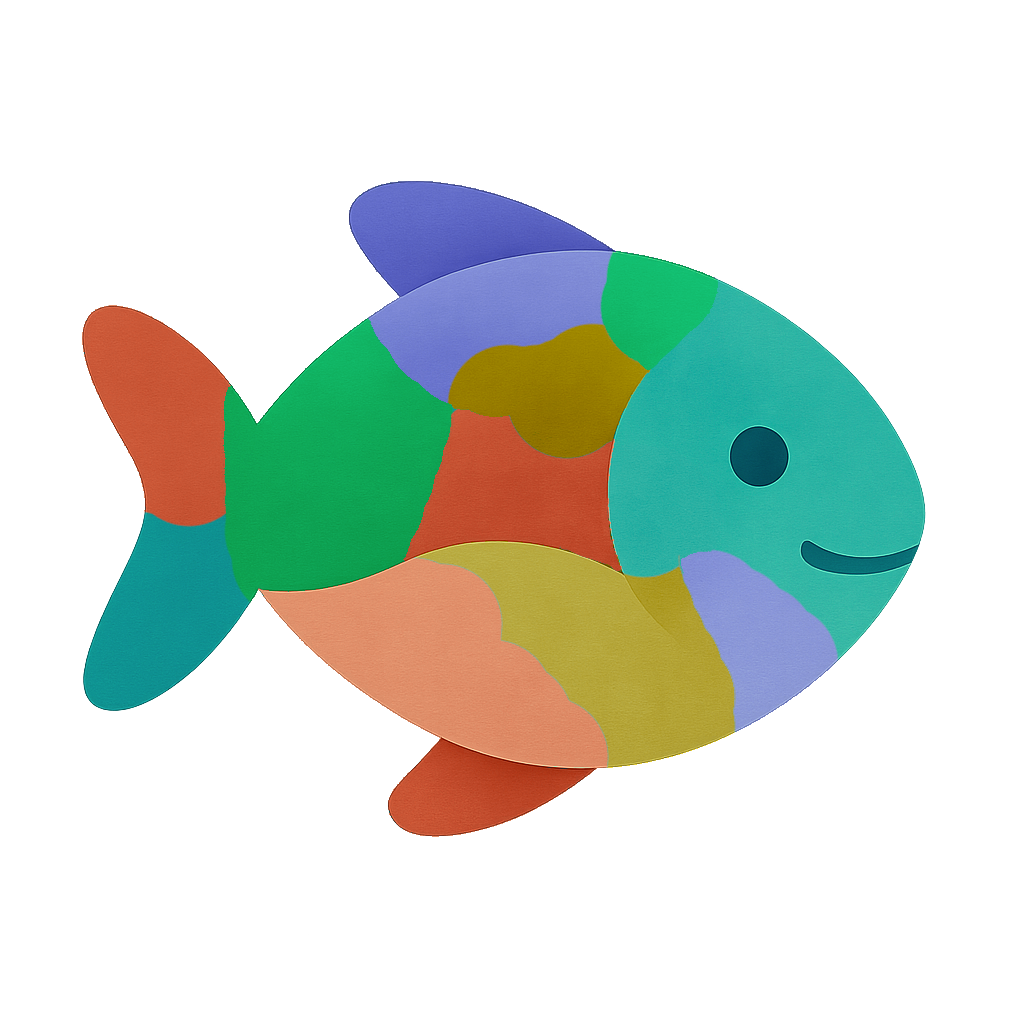
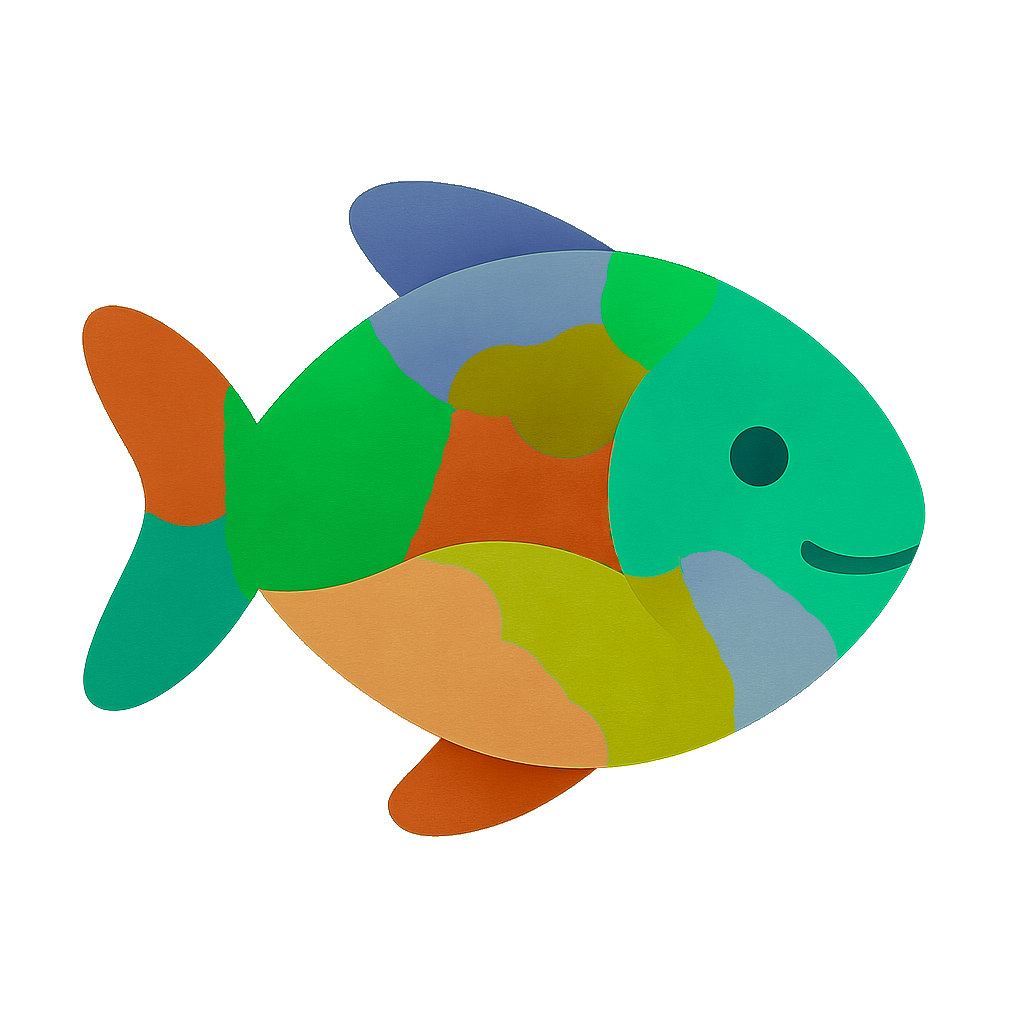
tip

diff --git a/components/TipCard.tsx b/components/TipCard.tsx
@@ -3,6 +3,12 @@ import { View, Text, Button } from '@/components/Themed';
 import { useTipPurchase } from '@/hooks/useTipPurchase';
 import { StyleSheet } from 'react-native';
 import { Loader } from '@/components/Loader';
+import { Image } from 'react-native';
+import rainbowFish from '@/assets/images/rainbow-fish.png';
+import coloredFish from '@/assets/images/colored-fish.png';
+
+const COLORED_FISH = coloredFish;
+const RAINBOW_FISH = rainbowFish;
 
 export default function TipCard() {
   const { loading, processing, error, buyTip, price } = useTipPurchase();
@@ -14,6 +20,13 @@ export default function TipCard() {
       <Text style={styles.text}>
         This app was made by one person, slowly and with love. No subscriptions, just a tiny project from me to you. Tips help me keep it alive!
       </Text>
+      <Text style={styles.text}>
+        Your gift will unlock two new fish colors.
+      </Text>
+      <View style={styles.imageContainer}>
+        <Image source={COLORED_FISH} style={styles.image} />
+        <Image source={RAINBOW_FISH} style={styles.image} />
+      </View>
 
       <Button
         title={`Buy me a coffee (${price})`}
@@ -44,5 +57,17 @@ const styles = StyleSheet.create({
     textAlign: 'center',
     lineHeight: 20,
     marginBottom: 12,
+  },
+  imageContainer: {
+    flexDirection: 'row',
+    justifyContent: 'center',
+    width: '100%',
+    gap: 12,
+    backgroundColor: 'transparent',
+  },
+  image: {
+    width: 40,
+    height: 40,
+    marginBottom: 6,
   },
 });
